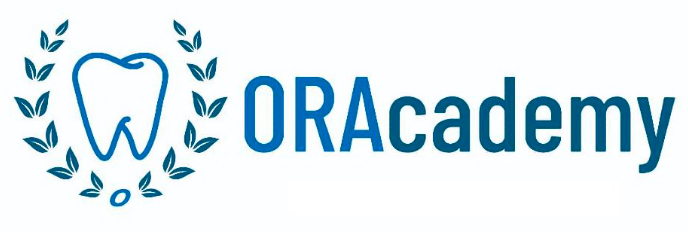
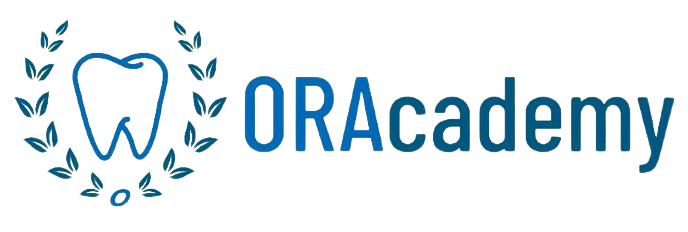
fix: email 2

diff --git a/2_Group_9440_Code/index.html b/2_Group_9440_Code/index.html
@@ -234,7 +234,7 @@
     <table cellpadding="0" cellspacing="0" border="0" role="presentation"
       style="margin: 0; border-spacing: 0; border: 2px solid green;">
       <tr>
-        <td width="100.00%" style="padding-top: 14.78px; width: 100%">
+        <td width="100.00%" style="width: 100%">
           <table class="bg-fffffe" cellpadding="0" cellspacing="0" border="0" role="presentation" bgcolor="white"
             width="100.00%" style="background-color: white; width: 100%; border-spacing: 0">
             <tr>
@@ -249,19 +249,11 @@
                         <tr>
                           <td align="left" style="padding-left: 23.75px">
                             <!--[if gte mso 9]> <v:image xmlns:v="urn:schemas-microsoft-com:vml" alt="background-image" fill="true" stroke="false" style="border: 0; display: inline-block; width: 365.25pt; height: 235.50pt" src="assets/table_14u000a_2dc70f.png"/> <v:rect alt="background-image-rectangle" fill="true" stroke="false" style="border: 0; display: inline-block; position: absolute; width: 365.25pt; height:235.50pt"> <v:fill opacity="0%" color="#FFFFFF/> <v:textbox inset="0,0,0,0"> <div> <div style="font-size: 0;"> <![endif]-->
-                            <table background="assets/table_14u000a_2dc70f.png"
+                            <table background="assets/LinkedIn-Post.png"
                               alt="a picture of a tooth with the word orapharma on the bottom" cellpadding="0"
                               cellspacing="0" border="0" role="presentation" align="center" width="487.00"
                               height="314.00"
-                              style="margin: 0; background: url('assets/table_14u000a_f29c6e.png') 50% / 100% no-repeat; width: 487px; height: 314px; border-spacing: 0">
-                              <tr>
-                                <td align="left" valign="middle" height="314.00"
-                                  style="padding-left: 83.25px; height: 314px">
-                                  <img src="assets/img_771788cb_fd36ff.png"
-                                    alt="a logo for orademy with a tooth and leaves" width="344"
-                                    style="max-width: initial; width: 344px; display: block" />
-                                </td>
-                              </tr>
+                              style="margin: 0; background: url('assets/LinkedIn-Post.png') 50% / 100% no-repeat; width: 487px; height: 314px; border-spacing: 0">
                             </table>
                             <!--[if gte mso 9]> </div> </div> </v:textbox> </v:fill> </v:rect> </v:image> <![endif]-->
                           </td>
